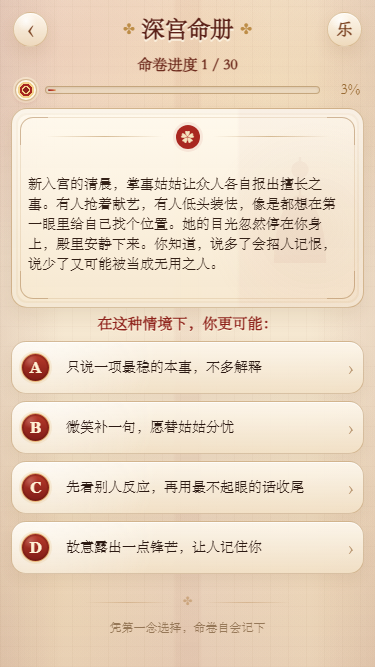
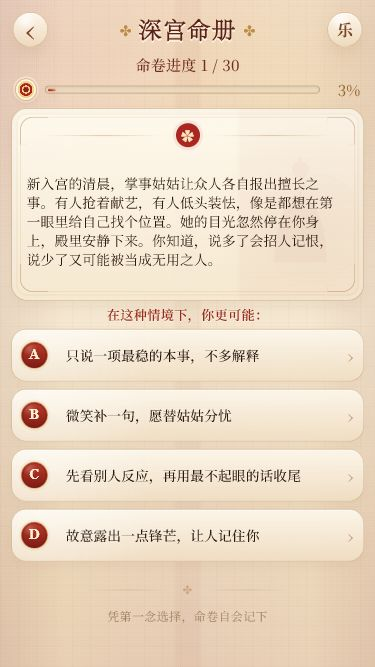
style: refine test page typography and details

diff --git a/app/test-page.css b/app/test-page.css
@@ -2039,3 +2039,190 @@
     padding-top: 6px;
   }
 }
+
+/* Final typography and detail refinement: ancient-book tone without changing the flow. */
+.test-page {
+  font-family: "Noto Serif SC", "Songti SC", "STSong", "SimSun", serif;
+  text-rendering: optimizeLegibility;
+  -webkit-font-smoothing: antialiased;
+}
+
+.test-header__title h1 {
+  font-family: "Songti SC", "STSong", "KaiTi", "Noto Serif SC", serif;
+  letter-spacing: 0.07em;
+  font-weight: 700;
+}
+
+.test-header__ornament,
+.test-progress__text,
+.test-progress__percent,
+.test-decision-prompt,
+.test-choice-button__text,
+.test-bottom-hint {
+  font-family: "Noto Serif SC", "Songti SC", "STSong", "SimSun", serif;
+}
+
+.test-progress__text {
+  font-weight: 500;
+  letter-spacing: 0.02em;
+}
+
+.test-progress__percent {
+  font-weight: 500;
+}
+
+.test-scene-card {
+  height: clamp(170px, 22dvh, 204px);
+  padding: 16px 18px 14px;
+  border-color: rgba(163, 116, 58, 0.40);
+  box-shadow:
+    0 7px 16px rgba(118, 75, 34, 0.085),
+    inset 0 0 0 4px rgba(255, 255, 255, 0.22),
+    inset 0 0 0 6px rgba(183, 140, 83, 0.07);
+}
+
+.test-scene-card::before {
+  border-color: rgba(183, 140, 83, 0.18);
+}
+
+.test-scene-card::after {
+  opacity: 0.03;
+}
+
+.test-scene-card__content {
+  justify-content: center;
+}
+
+.test-scene-card__body {
+  padding-right: 3px;
+}
+
+.test-scene-card p {
+  font-family: "Noto Serif SC", "Songti SC", "STSong", "SimSun", serif;
+  color: #2d1b13;
+  font-size: 14.6px;
+  line-height: 1.46;
+  letter-spacing: 0.01em;
+}
+
+.test-decision-prompt {
+  margin: -2px 0 -1px;
+  color: #98291d;
+  font-size: 14px;
+  line-height: 1.32;
+  font-weight: 600;
+  letter-spacing: 0.02em;
+  text-shadow: 0 1px 0 rgba(255, 247, 224, 0.56);
+}
+
+.test-choice-button {
+  border-color: rgba(163, 116, 58, 0.34);
+  background:
+    radial-gradient(circle at 8% 0%, rgba(255, 255, 255, 0.42), transparent 36%),
+    linear-gradient(180deg, rgba(252, 246, 234, 0.96), rgba(240, 222, 195, 0.90));
+  box-shadow:
+    0 5px 13px rgba(118, 75, 34, 0.068),
+    inset 0 1px rgba(255, 255, 255, 0.68);
+}
+
+.test-choice-button--selected {
+  border-color: rgba(143, 33, 27, 0.66);
+  box-shadow:
+    0 8px 19px rgba(143, 33, 27, 0.12),
+    inset 0 0 0 1px rgba(185, 59, 43, 0.18);
+}
+
+.test-choice-button__seal {
+  width: 28px;
+  height: 28px;
+  color: #fff0d1;
+  font-size: 14px;
+  font-weight: 700;
+  border-color: rgba(244, 210, 138, 0.70);
+  box-shadow:
+    inset 0 0 0 2px rgba(109, 25, 18, 0.32),
+    0 0 0 2px rgba(215, 168, 90, 0.12);
+}
+
+.test-choice-button__text {
+  color: #2a1a12;
+  font-size: 14.7px;
+  line-height: 1.32;
+  font-weight: 500;
+  letter-spacing: 0.01em;
+}
+
+.test-choice-button__arrow {
+  color: rgba(148, 100, 52, 0.52);
+  font-size: 18px;
+}
+
+.test-bottom-hint {
+  color: rgba(111, 78, 43, 0.62);
+  letter-spacing: 0.03em;
+}
+
+@media (min-height: 780px) {
+  .test-scene-card {
+    height: clamp(182px, 23dvh, 214px);
+    padding: 18px 20px 16px;
+  }
+
+  .test-scene-card p {
+    font-size: 15.1px;
+    line-height: 1.50;
+  }
+
+  .test-decision-prompt {
+    font-size: 14.2px;
+  }
+}
+
+@media (max-width: 380px) {
+  .test-scene-card {
+    height: clamp(178px, 29dvh, 198px);
+    padding: 15px 15px 13px;
+  }
+
+  .test-scene-card p {
+    font-size: 13.8px;
+    line-height: 1.38;
+  }
+
+  .test-decision-prompt {
+    font-size: 13.2px;
+    line-height: 1.26;
+  }
+
+  .test-choice-button__seal {
+    width: 27px;
+    height: 27px;
+    font-size: 13.5px;
+  }
+
+  .test-choice-button__text {
+    font-size: 13.7px;
+    line-height: 1.28;
+  }
+}
+
+@media (max-height: 640px) {
+  .test-scene-card {
+    height: clamp(154px, 28dvh, 170px);
+    padding: 13px 14px 11px;
+  }
+
+  .test-scene-card p {
+    font-size: 12.8px;
+    line-height: 1.32;
+  }
+
+  .test-decision-prompt {
+    font-size: 12.6px;
+    line-height: 1.22;
+  }
+
+  .test-choice-button__text {
+    font-size: 13.2px;
+  }
+}

diff --git a/docs/TEST_PAGE_HYBRID_REFINEMENT.md b/docs/TEST_PAGE_HYBRID_REFINEMENT.md
@@ -71,6 +71,18 @@ This pass keeps the accepted paper-palace visual direction while simplifying the
 - Updated the progress DOM to use three stable parts: fixed left node, flexible track, fixed right percentage.
 - Reduced the visible gap before the percentage to 5-6px across checked mobile widths.
 
+## Typography And Detail Refinement Pass
+
+This pass only refines typography and surface details. It does not change page structure, click behavior, question data, scoring, storage, or result routing.
+
+- Applied a classical serif stack for the test page: `Noto Serif SC`, `Songti SC`, `STSong`, `SimSun`, and serif fallback.
+- Tuned the page title toward a steadier Song/Kai book-title feeling with modest positive letter spacing.
+- Reduced the scene-card height and padding slightly so the card feels less bulky while keeping the first question fully readable.
+- Tightened story body line-height so the text reads more like a compact palace dossier instead of a loose web paragraph.
+- Softened the red decision prompt with smaller type, lighter weight, and warmer vermilion color.
+- Refined choice buttons with lighter gold borders, softer old-paper backgrounds, smaller ABCD seals, and quieter arrows.
+- Kept the current direct-tap answer flow: no bottom action bar, no `甲乙丙丁`, and no scene title inside the card.
+
 ## Product Logic
 
 - ABCD preserved: yes.
@@ -91,7 +103,7 @@ This pass keeps the accepted paper-palace visual direction while simplifying the
 
 ## Mobile Checks
 
-Preview URL used: `http://127.0.0.1:3017/test`
+Preview URL used: `http://127.0.0.1:3019/test`
 
 ### 375x667
 
@@ -101,9 +113,10 @@ Preview URL used: `http://127.0.0.1:3017/test`
 - Progress track reaches the available width with only a 6px gap before the percentage.
 - Scene title rendered inside the card: no.
 - Red decision prompt is outside the card: yes.
+- Typography refinement: pass.
 - Scene card readable: pass.
 - Scene text clipped: no.
-- Scene card height: 200px.
+- Scene card height: 193px.
 - Four ABCD options visible: pass.
 - Bottom hint visible at the lower edge without covering the fourth option.
 - Red decision prompt remains visible and is not compressed against the card bottom.
@@ -117,9 +130,10 @@ Preview URL used: `http://127.0.0.1:3017/test`
 - Progress track reaches the available width with only a 6px gap before the percentage.
 - Scene title rendered inside the card: no.
 - Red decision prompt is outside the card: yes.
+- Typography refinement: pass.
 - Scene card readable: pass.
 - Scene text clipped: no.
-- Scene card height: 203px.
+- Scene card height: 194px.
 - Four ABCD options visible: pass.
 - Bottom hint visible: pass.
 - Lower-page whitespace is closed with subtle decoration instead of a new action bar.
@@ -133,9 +147,10 @@ Preview URL used: `http://127.0.0.1:3017/test`
 - Progress track reaches the available width with only a 6px gap before the percentage.
 - Scene title rendered inside the card: no.
 - Red decision prompt is outside the card: yes.
+- Typography refinement: pass.
 - Scene card readable: pass.
 - Scene text clipped: no.
-- Scene card height: 224px.
+- Scene card height: 214px.
 - Four ABCD options visible: pass.
 - Bottom hint visible with natural breathing room: pass.
 - Bottom atmosphere prevents the page from feeling unfinished on taller screens.
@@ -145,7 +160,7 @@ Preview URL used: `http://127.0.0.1:3017/test`
 
 - `390x700`: no horizontal scroll, story text not clipped, 4 choices visible, bottom hint visible.
 - `375x620`: no horizontal scroll, story text not clipped, 4 choices visible, bottom hint visible.
-- Fixed card heights remain stable in compact browser-height checks: 178px at `390x700`, 178px at `375x620`.
+- Fixed card heights remain stable in compact browser-height checks: 170px at `390x700`, 170px at `375x620`.
 - Progress gaps before the percentage remain tight: 6px at `390x700`, 5px at `375x620`.
 
 ## Interaction Verification
@@ -165,6 +180,7 @@ After the remote preview deployment for this branch succeeds, this version is su
 - Whether the current scene-card height feels calm enough for long 30-question sessions.
 - Whether the music button should receive a custom palace icon later.
 - Whether the red-gold badge weight is close enough to the home page visual language.
+- Whether the refined serif stack appears consistently elegant on the target Android/iOS devices.
 
 ## Recommended Next Step
 